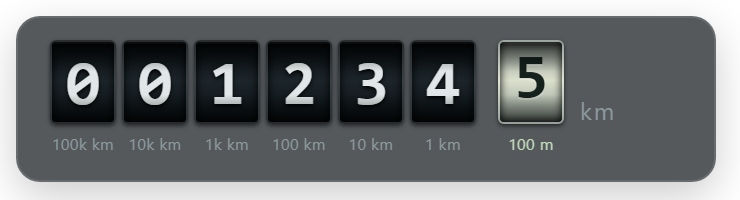
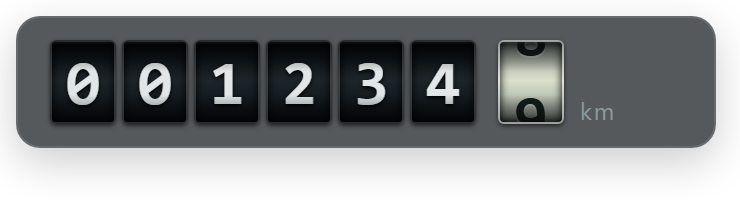
Remove labels from mechanical odometer wheels

Changed region(s): [[0.0, 0.66, 0.9946, 0.99], [0.6838, 0.21, 0.7459, 0.63]]

diff --git a/Odometer/index.html b/Odometer/index.html
@@ -17,16 +17,14 @@
 /* Mechanical wheels. The last wheel has 12 rows so its 9 -> 0 wrap is seamless. */
 .meter[data-style="mechanical"]{padding:11px 16px 9px}
 .meter[data-style="mechanical"] .reading{align-items:flex-start;gap:8px}
-.meter[data-style="mechanical"] .digits{height:61px;align-items:flex-start;gap:3px}
+.meter[data-style="mechanical"] .digits{height:44px;align-items:flex-start;gap:3px}
 .wheel-column{display:flex;flex-direction:column;align-items:center;gap:4px}
 .wheel{position:relative;width:33px;height:42px;overflow:hidden;border-radius:3px;background:linear-gradient(#080b0d,#1c252a 48%,#0b1013);border:1px solid #ffffff21;box-shadow:0 1px 2px #0009,inset 0 0 4px #000}
 .wheel:after{content:"";position:absolute;inset:0;pointer-events:none;background:linear-gradient(#0009,transparent 35%,transparent 65%,#0009);border-top:1px solid #ffffff0a}
 .wheel .strip span{height:42px;line-height:42px;color:#e1e7e8;font-family:Consolas,monospace;font-size:31px;font-weight:bold;text-shadow:0 1px 2px #000}
 .wheel .strip.animate{transition:transform 320ms cubic-bezier(.22,.7,.3,1)}
-.wheel-label{font:8px/11px Segoe UI,Arial,sans-serif;color:#8d9b9e;white-space:nowrap;letter-spacing:.02em}
 .wheel-column:last-child .wheel{background:linear-gradient(#86918c,#dce0cd 48%,#8c9890)}
 .wheel-column:last-child .strip span{color:#15211c;text-shadow:0 1px #ffffff42}
-.wheel-column:last-child .wheel-label{color:#c0d9bb}
 .wheel-separator{width:5px;height:42px}
 .meter[data-style="mechanical"] .unit{padding-top:27px}
 .appearance-settings{margin:26px 0;padding:22px;background:#11191d;border:1px solid #334047;border-radius:12px}
@@ -41,7 +39,7 @@
 .meter[data-style="electronic"] .reading{align-items:center}
 
 </style></head><body><div id="wrap"><section class="meter" aria-label="Car odometer"><div class="reading"><div class="digits" id="digits" aria-label="0.0 kilometres"></div><span class="unit">km</span></div></section></div>
-<!-- Kapps Odometer 0.2.0 | MIT License | See LICENSE -->
+<!-- Kapps Odometer 0.2.1 | MIT License | See LICENSE -->
 <script>
 /* MIT licensed. Built into Odometer/index.html; no runtime dependencies. */
 (function (root) {
@@ -252,11 +250,6 @@ window.createOdometerRenderer = function(meter){
      cell.timer=setTimeout(function(){cell.strip.classList.remove('animate');cell.a.textContent=value;cell.strip.style.transform='translateY(0)';},style==='mechanical'?340:280);
    }
  }
- function labelFor(power){
-   if(power===-1)return '100 m';
-   if(power>=3)return String(Math.pow(10,power-3))+'k km';
-   return String(Math.pow(10,power))+' km';
- }
  function build(text){
    clearCells();
    for(var i=0;i<text.length;i++){
@@ -272,9 +265,8 @@ window.createOdometerRenderer = function(meter){
        cells.push({el:el,dots:dots,timer:null});
      }else if(style==='mechanical'){
        el.className='wheel-column';var wheel=document.createElement('span');wheel.className='wheel';el.appendChild(wheel);
-       var label=document.createElement('span');label.className='wheel-label';label.textContent=labelFor(text.length-3-i);el.appendChild(label);
        if(i===text.length-1){
-         label.textContent='100 m';var strip=document.createElement('span');strip.className='strip';wheel.appendChild(strip);
+         var strip=document.createElement('span');strip.className='strip';wheel.appendChild(strip);
          for(var row=-1;row<=10;row++){var num=document.createElement('span');num.textContent=(row+10)%10;strip.appendChild(num);}
          cells.push({strip:strip,continuous:true,timer:null});
        }else cells.push(makeStrip(wheel,text[i],42));

diff --git a/src/appearance.css b/src/appearance.css
@@ -13,16 +13,14 @@
 /* Mechanical wheels. The last wheel has 12 rows so its 9 -> 0 wrap is seamless. */
 .meter[data-style="mechanical"]{padding:11px 16px 9px}
 .meter[data-style="mechanical"] .reading{align-items:flex-start;gap:8px}
-.meter[data-style="mechanical"] .digits{height:61px;align-items:flex-start;gap:3px}
+.meter[data-style="mechanical"] .digits{height:44px;align-items:flex-start;gap:3px}
 .wheel-column{display:flex;flex-direction:column;align-items:center;gap:4px}
 .wheel{position:relative;width:33px;height:42px;overflow:hidden;border-radius:3px;background:linear-gradient(#080b0d,#1c252a 48%,#0b1013);border:1px solid #ffffff21;box-shadow:0 1px 2px #0009,inset 0 0 4px #000}
 .wheel:after{content:"";position:absolute;inset:0;pointer-events:none;background:linear-gradient(#0009,transparent 35%,transparent 65%,#0009);border-top:1px solid #ffffff0a}
 .wheel .strip span{height:42px;line-height:42px;color:#e1e7e8;font-family:Consolas,monospace;font-size:31px;font-weight:bold;text-shadow:0 1px 2px #000}
 .wheel .strip.animate{transition:transform 320ms cubic-bezier(.22,.7,.3,1)}
-.wheel-label{font:8px/11px Segoe UI,Arial,sans-serif;color:#8d9b9e;white-space:nowrap;letter-spacing:.02em}
 .wheel-column:last-child .wheel{background:linear-gradient(#86918c,#dce0cd 48%,#8c9890)}
 .wheel-column:last-child .strip span{color:#15211c;text-shadow:0 1px #ffffff42}
-.wheel-column:last-child .wheel-label{color:#c0d9bb}
 .wheel-separator{width:5px;height:42px}
 .meter[data-style="mechanical"] .unit{padding-top:27px}
 .appearance-settings{margin:26px 0;padding:22px;background:#11191d;border:1px solid #334047;border-radius:12px}

diff --git a/src/renderer.js b/src/renderer.js
@@ -34,11 +34,6 @@ window.createOdometerRenderer = function(meter){
      cell.timer=setTimeout(function(){cell.strip.classList.remove('animate');cell.a.textContent=value;cell.strip.style.transform='translateY(0)';},style==='mechanical'?340:280);
    }
  }
- function labelFor(power){
-   if(power===-1)return '100 m';
-   if(power>=3)return String(Math.pow(10,power-3))+'k km';
-   return String(Math.pow(10,power))+' km';
- }
  function build(text){
    clearCells();
    for(var i=0;i<text.length;i++){
@@ -54,9 +49,8 @@ window.createOdometerRenderer = function(meter){
        cells.push({el:el,dots:dots,timer:null});
      }else if(style==='mechanical'){
        el.className='wheel-column';var wheel=document.createElement('span');wheel.className='wheel';el.appendChild(wheel);
-       var label=document.createElement('span');label.className='wheel-label';label.textContent=labelFor(text.length-3-i);el.appendChild(label);
        if(i===text.length-1){
-         label.textContent='100 m';var strip=document.createElement('span');strip.className='strip';wheel.appendChild(strip);
+         var strip=document.createElement('span');strip.className='strip';wheel.appendChild(strip);
          for(var row=-1;row<=10;row++){var num=document.createElement('span');num.textContent=(row+10)%10;strip.appendChild(num);}
          cells.push({strip:strip,continuous:true,timer:null});
        }else cells.push(makeStrip(wheel,text[i],42));

diff --git a/README.ru.md b/README.ru.md
@@ -6,11 +6,11 @@
 Overlay в Kapps: для самого виджета не нужны Python, отдельная программа или
 сборка исходников. Нужны уже работающие Kapps и iRacing на Windows.
 
-[Скачать v0.2.0](https://github.com/AT-Vadim/kapps-odometer/releases/download/v0.2.0/Odometer-Kapps-v0.2.0.zip) · [English documentation](README.md)
+[Скачать v0.2.1](https://github.com/AT-Vadim/kapps-odometer/releases/download/v0.2.1/Odometer-Kapps-v0.2.1.zip) · [English documentation](README.md)
 
 ## Установка
 
-1. Скачайте **Odometer-Kapps-v0.2.0.zip** в разделе **Releases** этого репозитория.
+1. Скачайте **Odometer-Kapps-v0.2.1.zip** в разделе **Releases** этого репозитория.
    Нужен именно установочный архив, а не автоматически созданный GitHub Source code.
 2. В Kapps откройте **Settings → Apps Folder**. Если другие custom-виджеты уже
    установлены, используйте существующую папку. Иначе создайте, например,
@@ -73,7 +73,7 @@ Apps Folder раздаёт HTML-файлы, а не запускает CMD/EXE. 
   цифра кратко мигает. Раз в 5–10 минут подмигивает часть одной цифры; общий
   сохранённый таймер не допускает этого чаще раза в пять минут, даже после
   перезагрузки или при нескольких открытых окнах.
-- **Механический · колёсики** — подписанные разряды. Светлое колёсико **100 m**
+- **Механический · колёсики** — колёсики без подписей. Светлое колёсико **100 m**
   непрерывно вращается между цифрами по дробной части пройденного расстояния.
   Километровые колёсики плавно переключаются при накоплении целого километра
   или переносе соответствующего разряда. При остановке пробега движение прекращается.
@@ -135,7 +135,7 @@ Overlay и папку Odometer. Данные браузера от этого а
 
 ## Статус версии
 
-**v0.2.0.** Протокол сверён с Kapps **1.24.38**, подключение к серверу проверено.
+**v0.2.1.** Протокол сверён с Kapps **1.24.38**, подключение к серверу проверено.
 Проверены расчёт, смена машин, фильтры повторов/гаража/эвакуации, сохранение,
 защита от двойного подсчёта, импорт и отображение. Полная проверка во время
 езды в iRacing и во всех режимах отображения Kapps пока не завершена.

diff --git a/README.md b/README.md
@@ -7,11 +7,11 @@ It runs as a Kapps Custom Overlay: no Python, extra application, subscription,
 cloud account, or build step is required for the widget itself. You need an
 existing working installation of Kapps and iRacing on Windows.
 
-[Download v0.2.0](https://github.com/AT-Vadim/kapps-odometer/releases/download/v0.2.0/Odometer-Kapps-v0.2.0.zip) · [Инструкция на русском](README.ru.md)
+[Download v0.2.1](https://github.com/AT-Vadim/kapps-odometer/releases/download/v0.2.1/Odometer-Kapps-v0.2.1.zip) · [Инструкция на русском](README.ru.md)
 
 ## Install
 
-1. Download **Odometer-Kapps-v0.2.0.zip** from this repository's **Releases** page.
+1. Download **Odometer-Kapps-v0.2.1.zip** from this repository's **Releases** page.
    Use the named install ZIP, rather than GitHub's automatically generated source ZIP.
 2. In Kapps, open **Settings → Apps Folder**. If you already use custom widgets,
    open that folder. Otherwise create a folder such as `Documents\KappsApps`,
@@ -29,7 +29,7 @@ existing working installation of Kapps and iRacing on Windows.
    ```
 
    **Do not select the Odometer subfolder itself as Apps Folder.** Do not leave
-   an extra `Odometer-Kapps-v0.2.0` folder between Apps Folder and Odometer.
+   an extra `Odometer-Kapps-v0.2.1` folder between Apps Folder and Odometer.
 4. In **Racing Overlay → Add Custom Overlay**, use:
 
    ```text
@@ -77,13 +77,13 @@ widgets in the same profile within about one second. The setting applies to all 
   blinks. A small part of one numeral flickers at random 5–10 minute intervals;
   a shared, persistent cooldown prevents more than one rare effect per five
   minutes, even with multiple windows or after a reload.
-- **Mechanical:** labelled numeral wheels. The light **100 m** wheel rotates
+- **Mechanical:** unlabelled numeral wheels. The light **100 m** wheel rotates
   continuously between numerals using fractional measured distance. Kilometre
   wheels roll smoothly only when the corresponding full kilometre/digit is
   reached. The wheels stop when mileage stops; they do not extrapolate distance.
 
 <img src="docs/electronic.png" alt="Electronic pixel odometer" width="370">
-<img src="docs/mechanical.png" alt="Labelled mechanical odometer" width="370">
+<img src="docs/mechanical.png" alt="Mechanical odometer" width="370">
 
 All styles retain the 70% opaque outer background. System reduced-motion
 preferences disable blinking and animated transitions. Appearance preferences
@@ -144,7 +144,7 @@ errors stop successful recording rather than silently switching to temporary dat
 
 ## Compatibility and testing
 
-**v0.2.0** release. The WebSocket protocol was checked against Kapps
+**v0.2.1** release. The WebSocket protocol was checked against Kapps
 **1.24.38**, and a connection to its local server was verified. Automated checks
 cover distance accounting, car changes, replay/tow/garage filtering, persistence,
 single-writer transactions, writer takeover, imports and the rendered widget.

diff --git a/CHANGELOG.md b/CHANGELOG.md
@@ -1,5 +1,12 @@
 # Changelog
 
+## 0.2.1 — 2026-09-07
+
+- Removed labels below the mechanical number wheels.
+- Reduced the mechanical display height to remove the unused label space.
+- Updated the preview image and installation downloads.
+
+
 ## 0.2.0 — 2026-09-07
 
 - Added electronic 5 × 7 pixel digits with a blink on each changed numeral.
